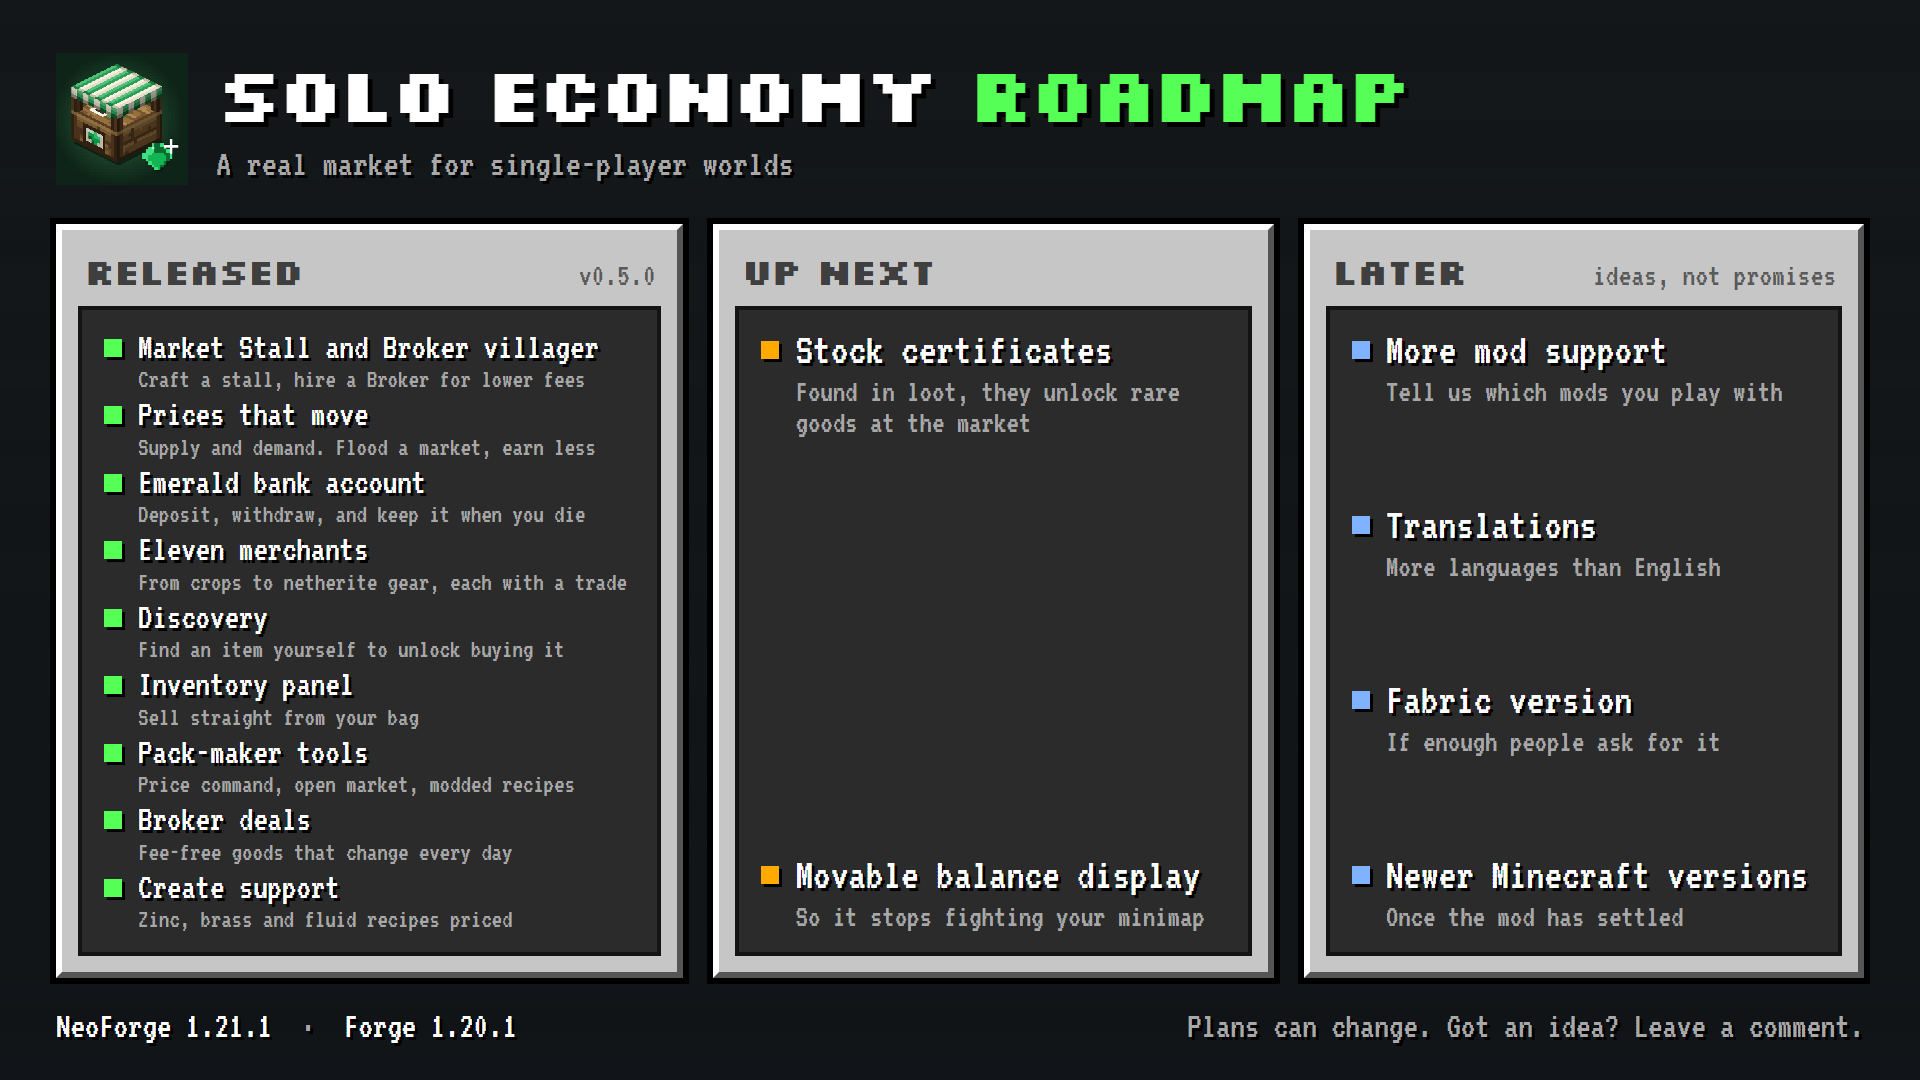
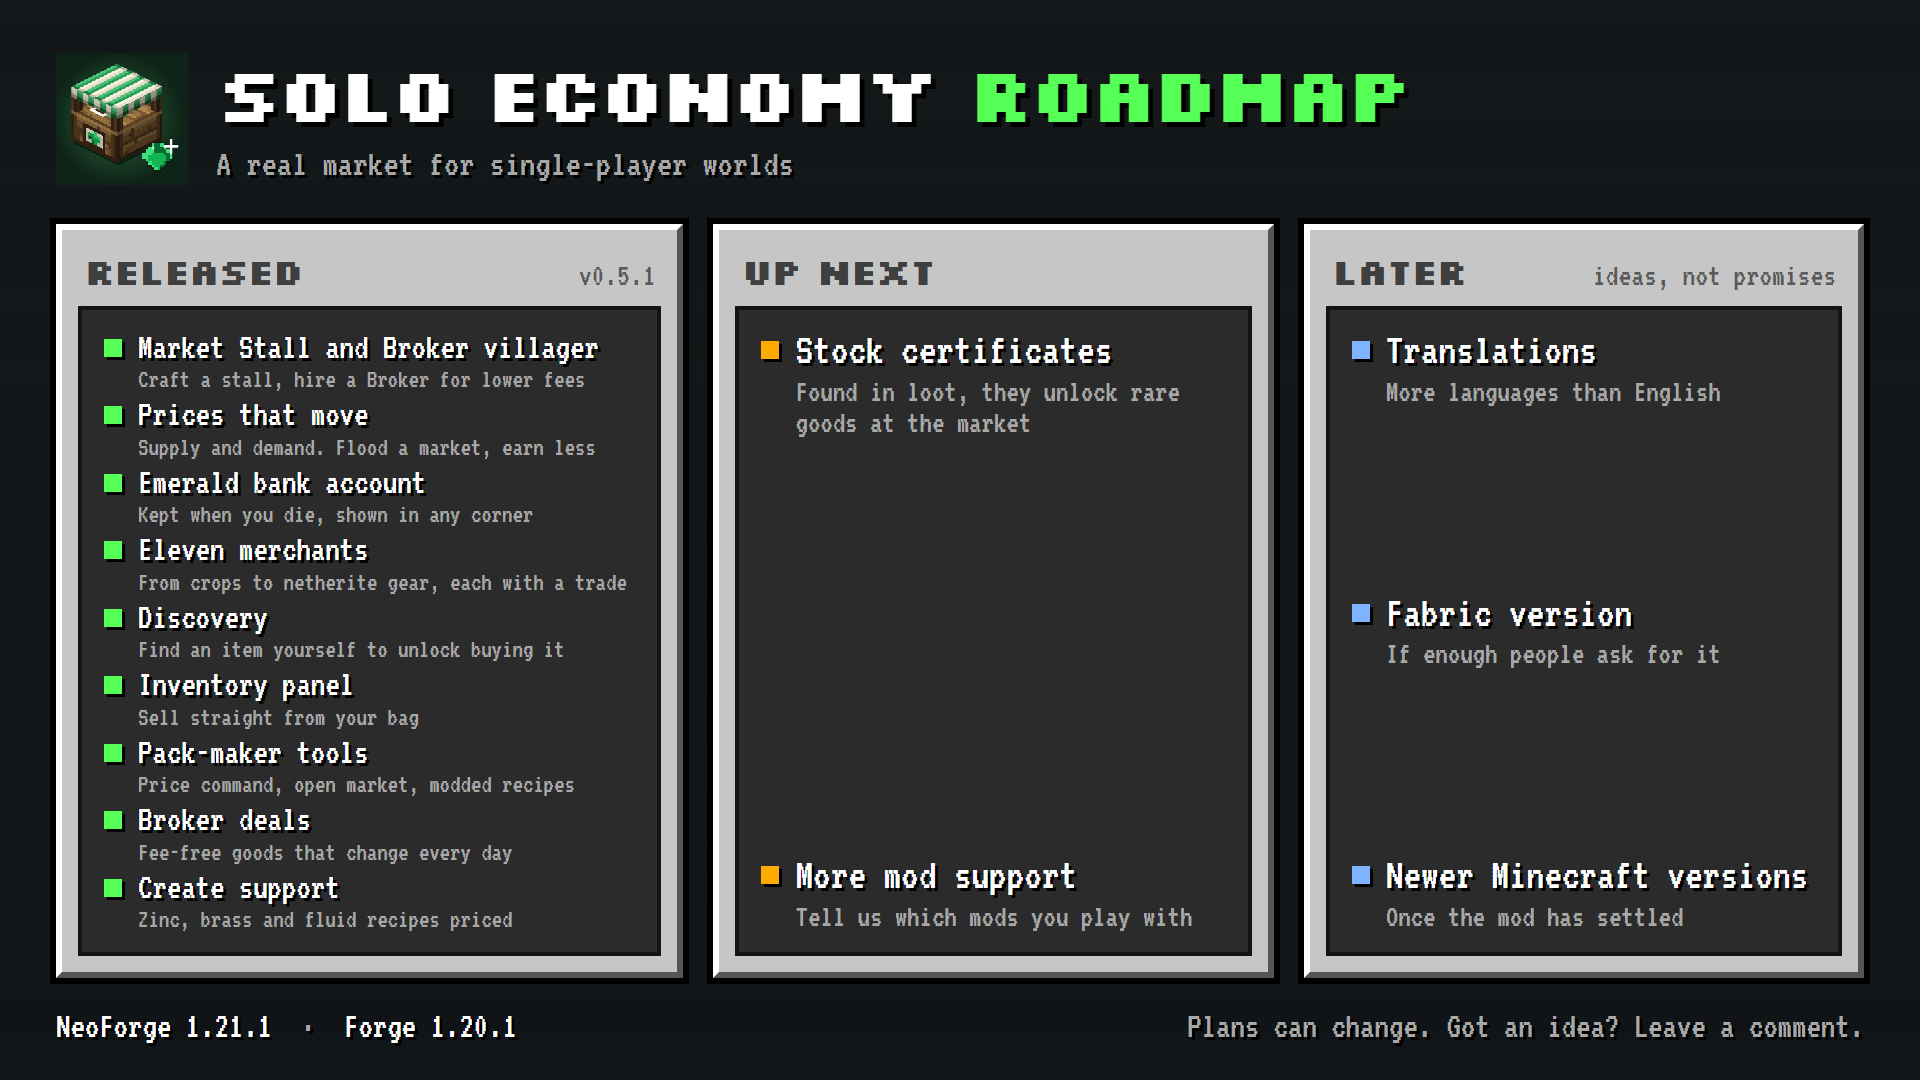
Movable balance display and a large-modpack stress test (0.5.1)
- Client config (soloeconomy-client.toml) picks the corner the balance
  sits in, or hides it, with pixel offsets
- GameTest pricing 40,000 extra tangled recipes, which must finish in
  seconds with the modded-recipe checks on

Also adds publish.ps1, which uploads a release folder to CurseForge with a
dry run by default; the API token is read from the environment.

diff --git a/curseforge/roadmap.html b/curseforge/roadmap.html
@@ -97,11 +97,11 @@
 
   <main>
     <section class="panel done">
-      <h2>Released <small>v0.5.0</small></h2>
+      <h2>Released <small>v0.5.1</small></h2>
       <div class="box">
         <div class="item"><i></i><div><b>Market Stall and Broker villager</b><p>Craft a stall, hire a Broker for lower fees</p></div></div>
         <div class="item"><i></i><div><b>Prices that move</b><p>Supply and demand. Flood a market, earn less</p></div></div>
-        <div class="item"><i></i><div><b>Emerald bank account</b><p>Deposit, withdraw, and keep it when you die</p></div></div>
+        <div class="item"><i></i><div><b>Emerald bank account</b><p>Kept when you die, shown in any corner</p></div></div>
         <div class="item"><i></i><div><b>Eleven merchants</b><p>From crops to netherite gear, each with a trade</p></div></div>
         <div class="item"><i></i><div><b>Discovery</b><p>Find an item yourself to unlock buying it</p></div></div>
         <div class="item"><i></i><div><b>Inventory panel</b><p>Sell straight from your bag</p></div></div>
@@ -115,14 +115,13 @@
       <h2>Up next</h2>
       <div class="box">
         <div class="item"><i></i><div><b>Stock certificates</b><p>Found in loot, they unlock rare goods at the market</p></div></div>
-        <div class="item"><i></i><div><b>Movable balance display</b><p>So it stops fighting your minimap</p></div></div>
+        <div class="item"><i></i><div><b>More mod support</b><p>Tell us which mods you play with</p></div></div>
       </div>
     </section>
 
     <section class="panel later">
       <h2>Later <small>ideas, not promises</small></h2>
       <div class="box">
-        <div class="item"><i></i><div><b>More mod support</b><p>Tell us which mods you play with</p></div></div>
         <div class="item"><i></i><div><b>Translations</b><p>More languages than English</p></div></div>
         <div class="item"><i></i><div><b>Fabric version</b><p>If enough people ask for it</p></div></div>
         <div class="item"><i></i><div><b>Newer Minecraft versions</b><p>Once the mod has settled</p></div></div>

diff --git a/src/main/java/com/soloeconomy/gametest/EconomyGameTests.java b/src/main/java/com/soloeconomy/gametest/EconomyGameTests.java
@@ -530,6 +530,51 @@ public final class EconomyGameTests {
         helper.succeed();
     }
 
+    /**
+     * A big modpack's worth of recipes - tens of thousands, tangled and full of free lunches - must
+     * still be priced in seconds, with the modded-recipe checks on.
+     *
+     * <p>Guards against: the price book taking so long on a large pack that the world looks stuck.
+     */
+    @GameTest(template = TEMPLATE)
+    public static void hugeRecipeSetsArePricedInSeconds(GameTestHelper helper) {
+        MinecraftServer server = helper.getLevel().getServer();
+        List<Item> items = net.minecraft.core.registries.BuiltInRegistries.ITEM.stream().filter(item -> item != Items.AIR).toList();
+        java.util.Random random = new java.util.Random(42L);
+        RecipeManager recipes = new RecipeManager(server.registryAccess());
+        List<RecipeHolder<?>> all = new ArrayList<>(server.getRecipeManager().getRecipes());
+        for (int i = 0; i < 40_000; i++) {
+            NonNullList<Ingredient> inputs = NonNullList.create();
+            for (int slot = random.nextInt(9); slot >= 0; slot--) {
+                // One in five slots takes any of a big group, like a tag.
+                Item[] choices = new Item[random.nextInt(5) == 0 ? 2 + random.nextInt(62) : 1];
+                for (int c = 0; c < choices.length; c++) {
+                    choices[c] = items.get(random.nextInt(items.size()));
+                }
+                inputs.add(Ingredient.of(choices));
+            }
+            all.add(new RecipeHolder<>(ResourceLocation.fromNamespaceAndPath(SoloEconomy.MOD_ID, "huge_" + i),
+                    new net.minecraft.world.item.crafting.ShapelessRecipe("", net.minecraft.world.item.crafting.CraftingBookCategory.MISC,
+                            new ItemStack(items.get(random.nextInt(items.size())), 1 + random.nextInt(4)), inputs)));
+        }
+        recipes.replaceRecipes(all);
+
+        boolean saved = EconomyConfig.INSTANCE.modRecipes.get();
+        BasePriceLoader.Parsed seeds = BasePriceLoader.current();
+        try {
+            EconomyConfig.INSTANCE.modRecipes.set(true);
+            long start = System.nanoTime();
+            MarketCatalog.build(seeds.prices(), seeds.untradeable(), MerchantLoader.current(), recipes, server.registryAccess());
+            long millis = (System.nanoTime() - start) / 1_000_000L;
+            if (millis > 15_000L) {
+                helper.fail("Pricing 40,000 extra recipes took " + millis + " ms");
+            }
+        } finally {
+            EconomyConfig.INSTANCE.modRecipes.set(saved);
+        }
+        helper.succeed();
+    }
+
     private static double raw(MarketCatalog catalog, Item item) {
         double total = 0.0D;
         for (var part : catalog.bundle(item).contents().entrySet()) {

diff --git a/src/main/java/com/soloeconomy/client/BalanceHud.java b/src/main/java/com/soloeconomy/client/BalanceHud.java
@@ -2,6 +2,7 @@ package com.soloeconomy.client;
 
 import net.minecraft.client.DeltaTracker;
 import net.minecraft.client.Minecraft;
+import com.soloeconomy.config.ClientConfig;
 import com.soloeconomy.market.EconomyAccount;
 
 import net.minecraft.client.gui.GuiGraphics;
@@ -9,13 +10,12 @@ import net.minecraft.world.item.ItemStack;
 import net.minecraft.world.item.Items;
 
 /**
- * The balance readout, pinned to the right edge of the screen.
+ * The balance readout, in whichever corner of the screen the client config asks for.
  *
  * <p>Hidden while the stall is open, since that screen already shows the number in its header.
  */
 public final class BalanceHud {
 
-    private static final int PADDING = 4;
     private static final int HEIGHT = 20;
     private static final int BACKGROUND = 0x90000000;
     private static final int TEXT = 0xFFFFFFFF;
@@ -28,15 +28,20 @@ public final class BalanceHud {
         if (minecraft.player == null || minecraft.options.hideGui) {
             return;
         }
-        if (minecraft.screen instanceof MarketScreen) {
+        ClientConfig.Corner corner = ClientConfig.INSTANCE.balanceCorner.get();
+        if (minecraft.screen instanceof MarketScreen || corner == ClientConfig.Corner.HIDDEN) {
             return;
         }
 
         String text = Long.toString(ClientMarketState.balance() / EconomyAccount.CENTS_PER_EMERALD);
         int textWidth = minecraft.font.width(text);
         int boxWidth = 22 + textWidth + 6;
-        int x = graphics.guiWidth() - boxWidth - PADDING;
-        int y = PADDING;
+        int offsetX = ClientConfig.INSTANCE.balanceOffsetX.get();
+        int offsetY = ClientConfig.INSTANCE.balanceOffsetY.get();
+        boolean left = corner == ClientConfig.Corner.TOP_LEFT || corner == ClientConfig.Corner.BOTTOM_LEFT;
+        boolean bottom = corner == ClientConfig.Corner.BOTTOM_LEFT || corner == ClientConfig.Corner.BOTTOM_RIGHT;
+        int x = left ? offsetX : graphics.guiWidth() - boxWidth - offsetX;
+        int y = bottom ? graphics.guiHeight() - HEIGHT - offsetY : offsetY;
 
         graphics.fill(x, y, x + boxWidth, y + HEIGHT, BACKGROUND);
         graphics.renderItem(new ItemStack(Items.EMERALD), x + 3, y + 2);

diff --git a/src/main/java/com/soloeconomy/config/ClientConfig.java b/src/main/java/com/soloeconomy/config/ClientConfig.java
@@ -1,0 +1,41 @@
+package com.soloeconomy.config;
+
+import net.neoforged.neoforge.common.ModConfigSpec;
+
+import org.apache.commons.lang3.tuple.Pair;
+
+/** Per-player display settings, in config/soloeconomy-client.toml. Changes apply as soon as the file is saved. */
+public final class ClientConfig {
+
+    public enum Corner { TOP_RIGHT, TOP_LEFT, BOTTOM_RIGHT, BOTTOM_LEFT, HIDDEN }
+
+    public static final ModConfigSpec SPEC;
+    public static final ClientConfig INSTANCE;
+
+    public final ModConfigSpec.EnumValue<Corner> balanceCorner;
+    public final ModConfigSpec.IntValue balanceOffsetX;
+    public final ModConfigSpec.IntValue balanceOffsetY;
+
+    private ClientConfig(ModConfigSpec.Builder builder) {
+        builder.comment("Solo Economy - the emerald balance shown on screen").push("balance");
+
+        balanceCorner = builder
+                .comment("Which corner the balance sits in. Move it if it covers a minimap, or use HIDDEN",
+                        "to turn it off; the stall always shows your balance.")
+                .defineEnum("corner", Corner.TOP_RIGHT);
+        balanceOffsetX = builder
+                .comment("Distance from the left or right edge of the screen, in GUI pixels.")
+                .defineInRange("offsetX", 4, 0, 4000);
+        balanceOffsetY = builder
+                .comment("Distance from the top or bottom edge. About 45 clears the hotbar in a bottom corner.")
+                .defineInRange("offsetY", 4, 0, 4000);
+
+        builder.pop();
+    }
+
+    static {
+        Pair<ClientConfig, ModConfigSpec> pair = new ModConfigSpec.Builder().configure(ClientConfig::new);
+        INSTANCE = pair.getLeft();
+        SPEC = pair.getRight();
+    }
+}

diff --git a/src/main/java/com/soloeconomy/SoloEconomy.java b/src/main/java/com/soloeconomy/SoloEconomy.java
@@ -1,5 +1,6 @@
 package com.soloeconomy;
 
+import com.soloeconomy.config.ClientConfig;
 import com.soloeconomy.config.EconomyConfig;
 import com.soloeconomy.network.ModNetwork;
 import com.soloeconomy.registry.ModAttachments;
@@ -34,5 +35,6 @@ public class SoloEconomy {
         modBus.addListener(ModNetwork::register);
 
         container.registerConfig(ModConfig.Type.SERVER, EconomyConfig.SPEC);
+        container.registerConfig(ModConfig.Type.CLIENT, ClientConfig.SPEC);
     }
 }

diff --git a/README.md b/README.md
@@ -197,6 +197,15 @@ that bundles exist to close.
 replace a merchant, add new ones, or start from nothing. Names and descriptions come from the lang
 keys `merchant.soloeconomy.<id>` and `merchant.soloeconomy.<id>.desc`.
 
+### The balance display
+
+`config/soloeconomy-client.toml` is each player's own display setting, and applies as soon as it is saved:
+
+| Setting | Default | What it does |
+| --- | --- | --- |
+| `corner` | TOP_RIGHT | Where the emerald balance sits: `TOP_RIGHT`, `TOP_LEFT`, `BOTTOM_RIGHT`, `BOTTOM_LEFT` or `HIDDEN`. |
+| `offsetX`, `offsetY` | 4 | Distance from the screen edges, in GUI pixels. |
+
 ### Other mods' items
 
 Items crafted, smelted, stonecut or upgraded at a smithing table from priced materials get a price automatically. With
@@ -230,7 +239,7 @@ On 1.21.1, `-PwithCreate` adds Create to the dev runs without shipping it.
 
 ## Tests
 
-`runGameTestServer` runs fifteen GameTests against the real recipe set and exits non-zero on failure:
+`runGameTestServer` runs sixteen GameTests against the real recipe set and exits non-zero on failure:
 
 | test | guards against |
 | --- | --- |
@@ -247,6 +256,7 @@ On 1.21.1, `-PwithCreate` adds Create to the dev runs without shipping it.
 | daily dumping hits diminishing returns | a 1000-logs-a-day farm earning 8,200 emeralds a month |
 | netherite gear is priced from smithing | smithing recipes being skipped, leaving netherite gear untradeable |
 | tangled recipes do not stall the catalog | recipe loops making the price book take for ever, leaving worlds stuck at 100% |
+| huge recipe sets are priced in seconds | a big modpack's recipes making the world look stuck on load |
 | broker deals never pay to flip | a fee-free buy that sells straight back for more |
 | mod recipes price machine outputs | modded recipes read when off, or chance outputs counted as certain |
 
@@ -267,7 +277,6 @@ On 1.21.1, `-PwithCreate` adds Create to the dev runs without shipping it.
 ## Known limitations
 
 - Potions, spawn eggs, music discs, pottery sherds and armour trims have no price.
-- The balance display sits in the top-right corner and can't be moved yet.
 - Built for single-player. On a server, every player shares one market.
 - English only.
 

diff --git a/CHANGELOG.md b/CHANGELOG.md
@@ -1,3 +1,24 @@
+# Solo Economy 0.5.1
+
+**Minecraft 1.21.1 · NeoForge (built on 21.1.209) · Java 21**
+
+## Move the balance display
+
+The emerald balance in the corner of the screen can be moved, so it stops covering your minimap.
+
+Open `config/soloeconomy-client.toml` (it appears after you run the game once with this version) and set:
+
+- `corner` to `TOP_RIGHT`, `TOP_LEFT`, `BOTTOM_RIGHT`, `BOTTOM_LEFT`, or `HIDDEN` to turn it off
+- `offsetX` and `offsetY` to nudge it away from the edges. About 45 for `offsetY` clears the hotbar in a bottom corner.
+
+Changes apply as soon as you save the file. No restart needed, and it works on servers too, since it's your own display setting.
+
+## Big modpacks
+
+Checked that the price book stays fast on a huge recipe set: 40,000 extra recipes, tangled on purpose, are priced in about three seconds. There's now a test that keeps it that way.
+
+---
+
 # Solo Economy 0.5.0
 
 **Minecraft 1.21.1 · NeoForge (built on 21.1.209) · Java 21**

diff --git a/curseforge/description.md b/curseforge/description.md
@@ -112,7 +112,7 @@ This is an early release.
 
 - **Not yet tradeable:** potions, spawn eggs, music discs, pottery sherds and armour trims.
 - **Modded items** are traded with `openMarket` on or when a datapack lists them under a merchant. Items from modded machines and workbenches need `modRecipes` on, and some may need a price set by hand. **Create** works out of the box with both settings on: zinc, brass and fluid recipes are priced.
-- **The balance display** sits in the top-right corner and may overlap a minimap.
+- **The balance display** can be moved to any corner, or hidden, in `config/soloeconomy-client.toml` if it overlaps a minimap.
 - **Built for single-player.** On a server, all players share one market.
 - **English only.**
 
